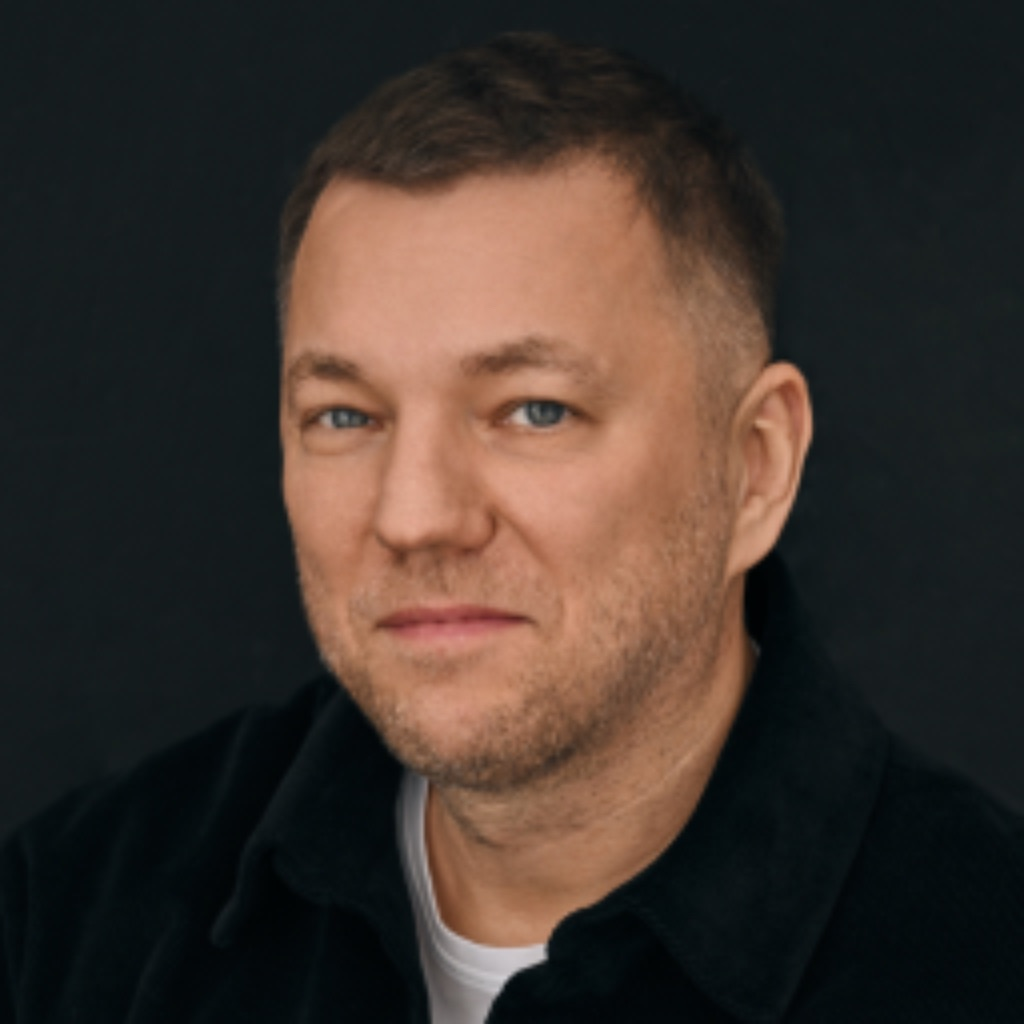
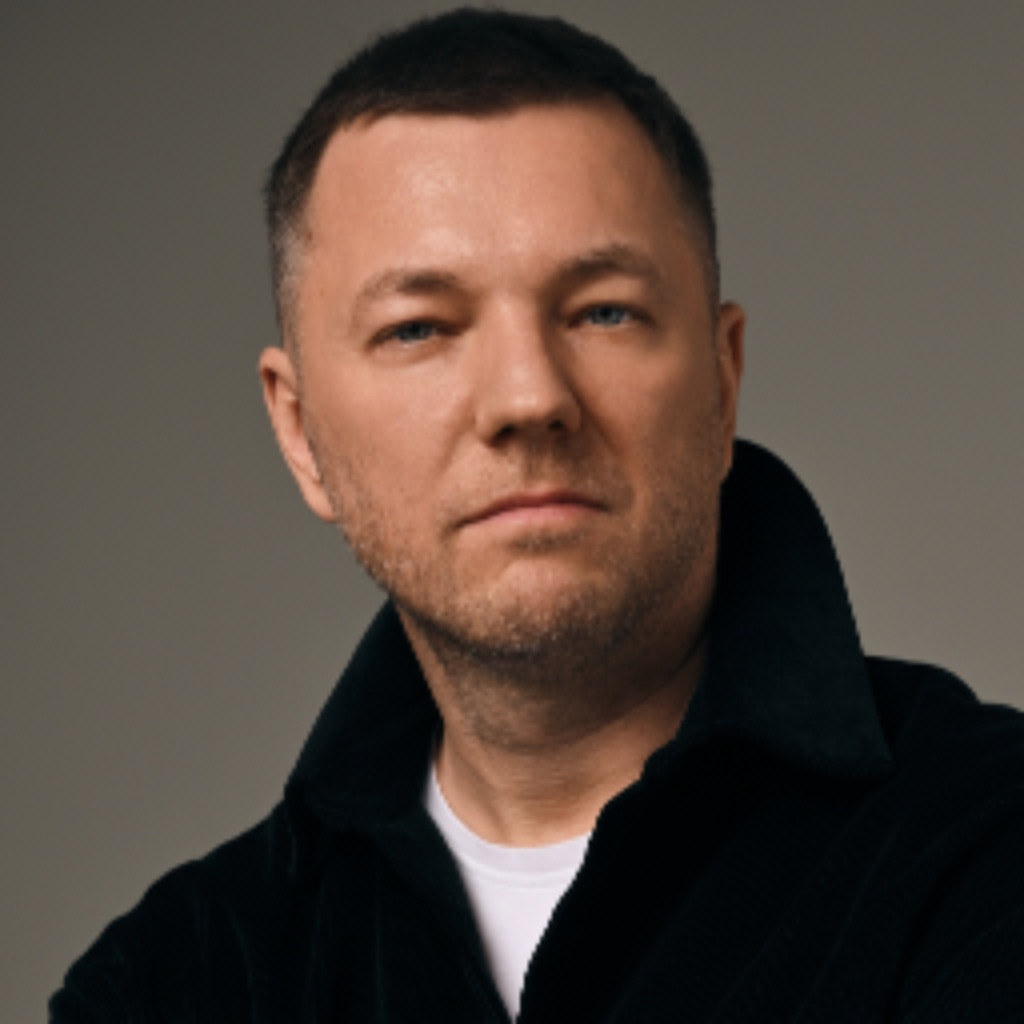
#758 new pics

diff --git a/static/trainings.md b/static/trainings.md
@@ -16,7 +16,7 @@ nospell: true
 image: /images/andreea/yegor-is-presenting.png
 ---
 
-{% badge /images/about/yegor-speaking.jpg 300 %}
+{% badge /images/about/yegor-full-size.jpg 300 %}
 
 [**Yegor Bugayenko**](/) is a famous software development expert, a book writer,
 a blogger, a conference speaker, and a CEO of [Zerocracy](https://www.zerocracy.com), AI software company.

diff --git a/static/about-me.md b/static/about-me.md
@@ -7,7 +7,7 @@ description: |
   Yegor Bugayenko is a programmer, software architect,
   writer, blogger, speaker, project manager, CEO, seed investor,
   and philanthropist.
-image: /images/about/yegor-speaking.jpg
+image: /images/about/yegor-full-size.jpg
 keywords:
   - java blog
   - blog about programming

diff --git a/static/best.md b/static/best.md
@@ -6,7 +6,7 @@ description: |
   open source projects I'm working with in Zerocracy,
   my software development company
 permalink: best.html
-image: /images/about/yegor-speaking.jpg
+image: /images/about/yegor-full-size.jpg
 keywords:
   - java blog
   - java
